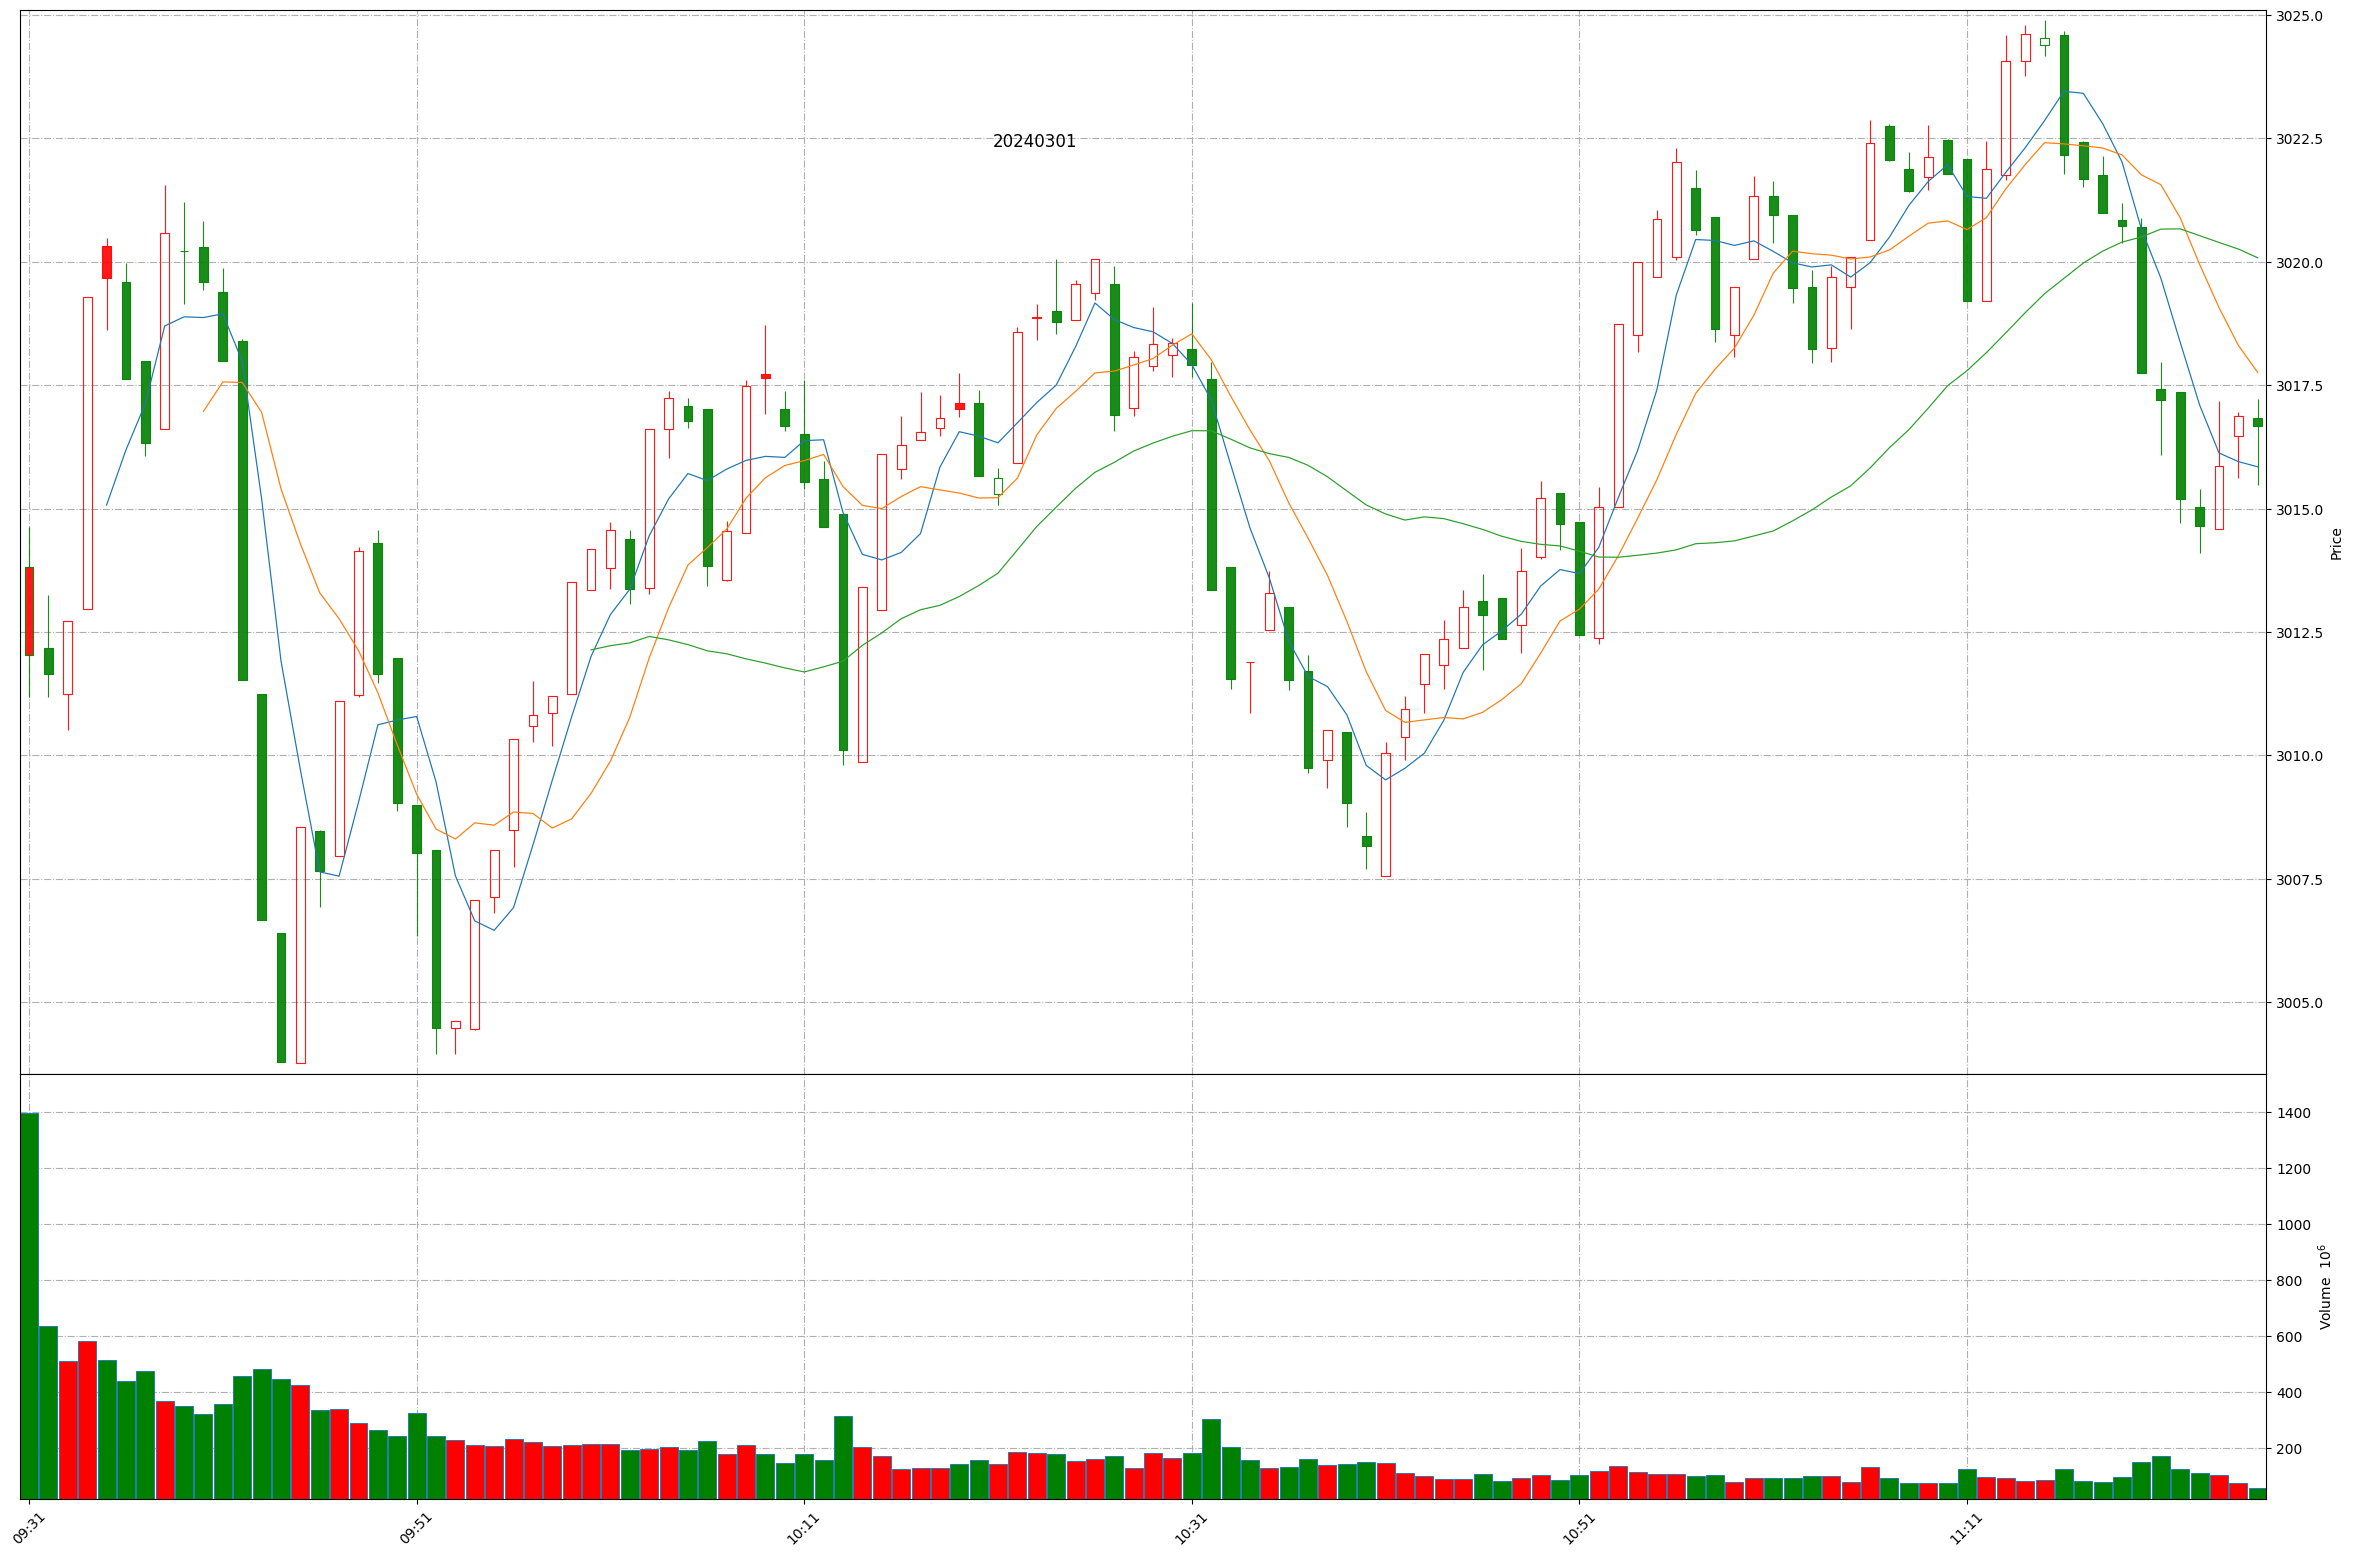
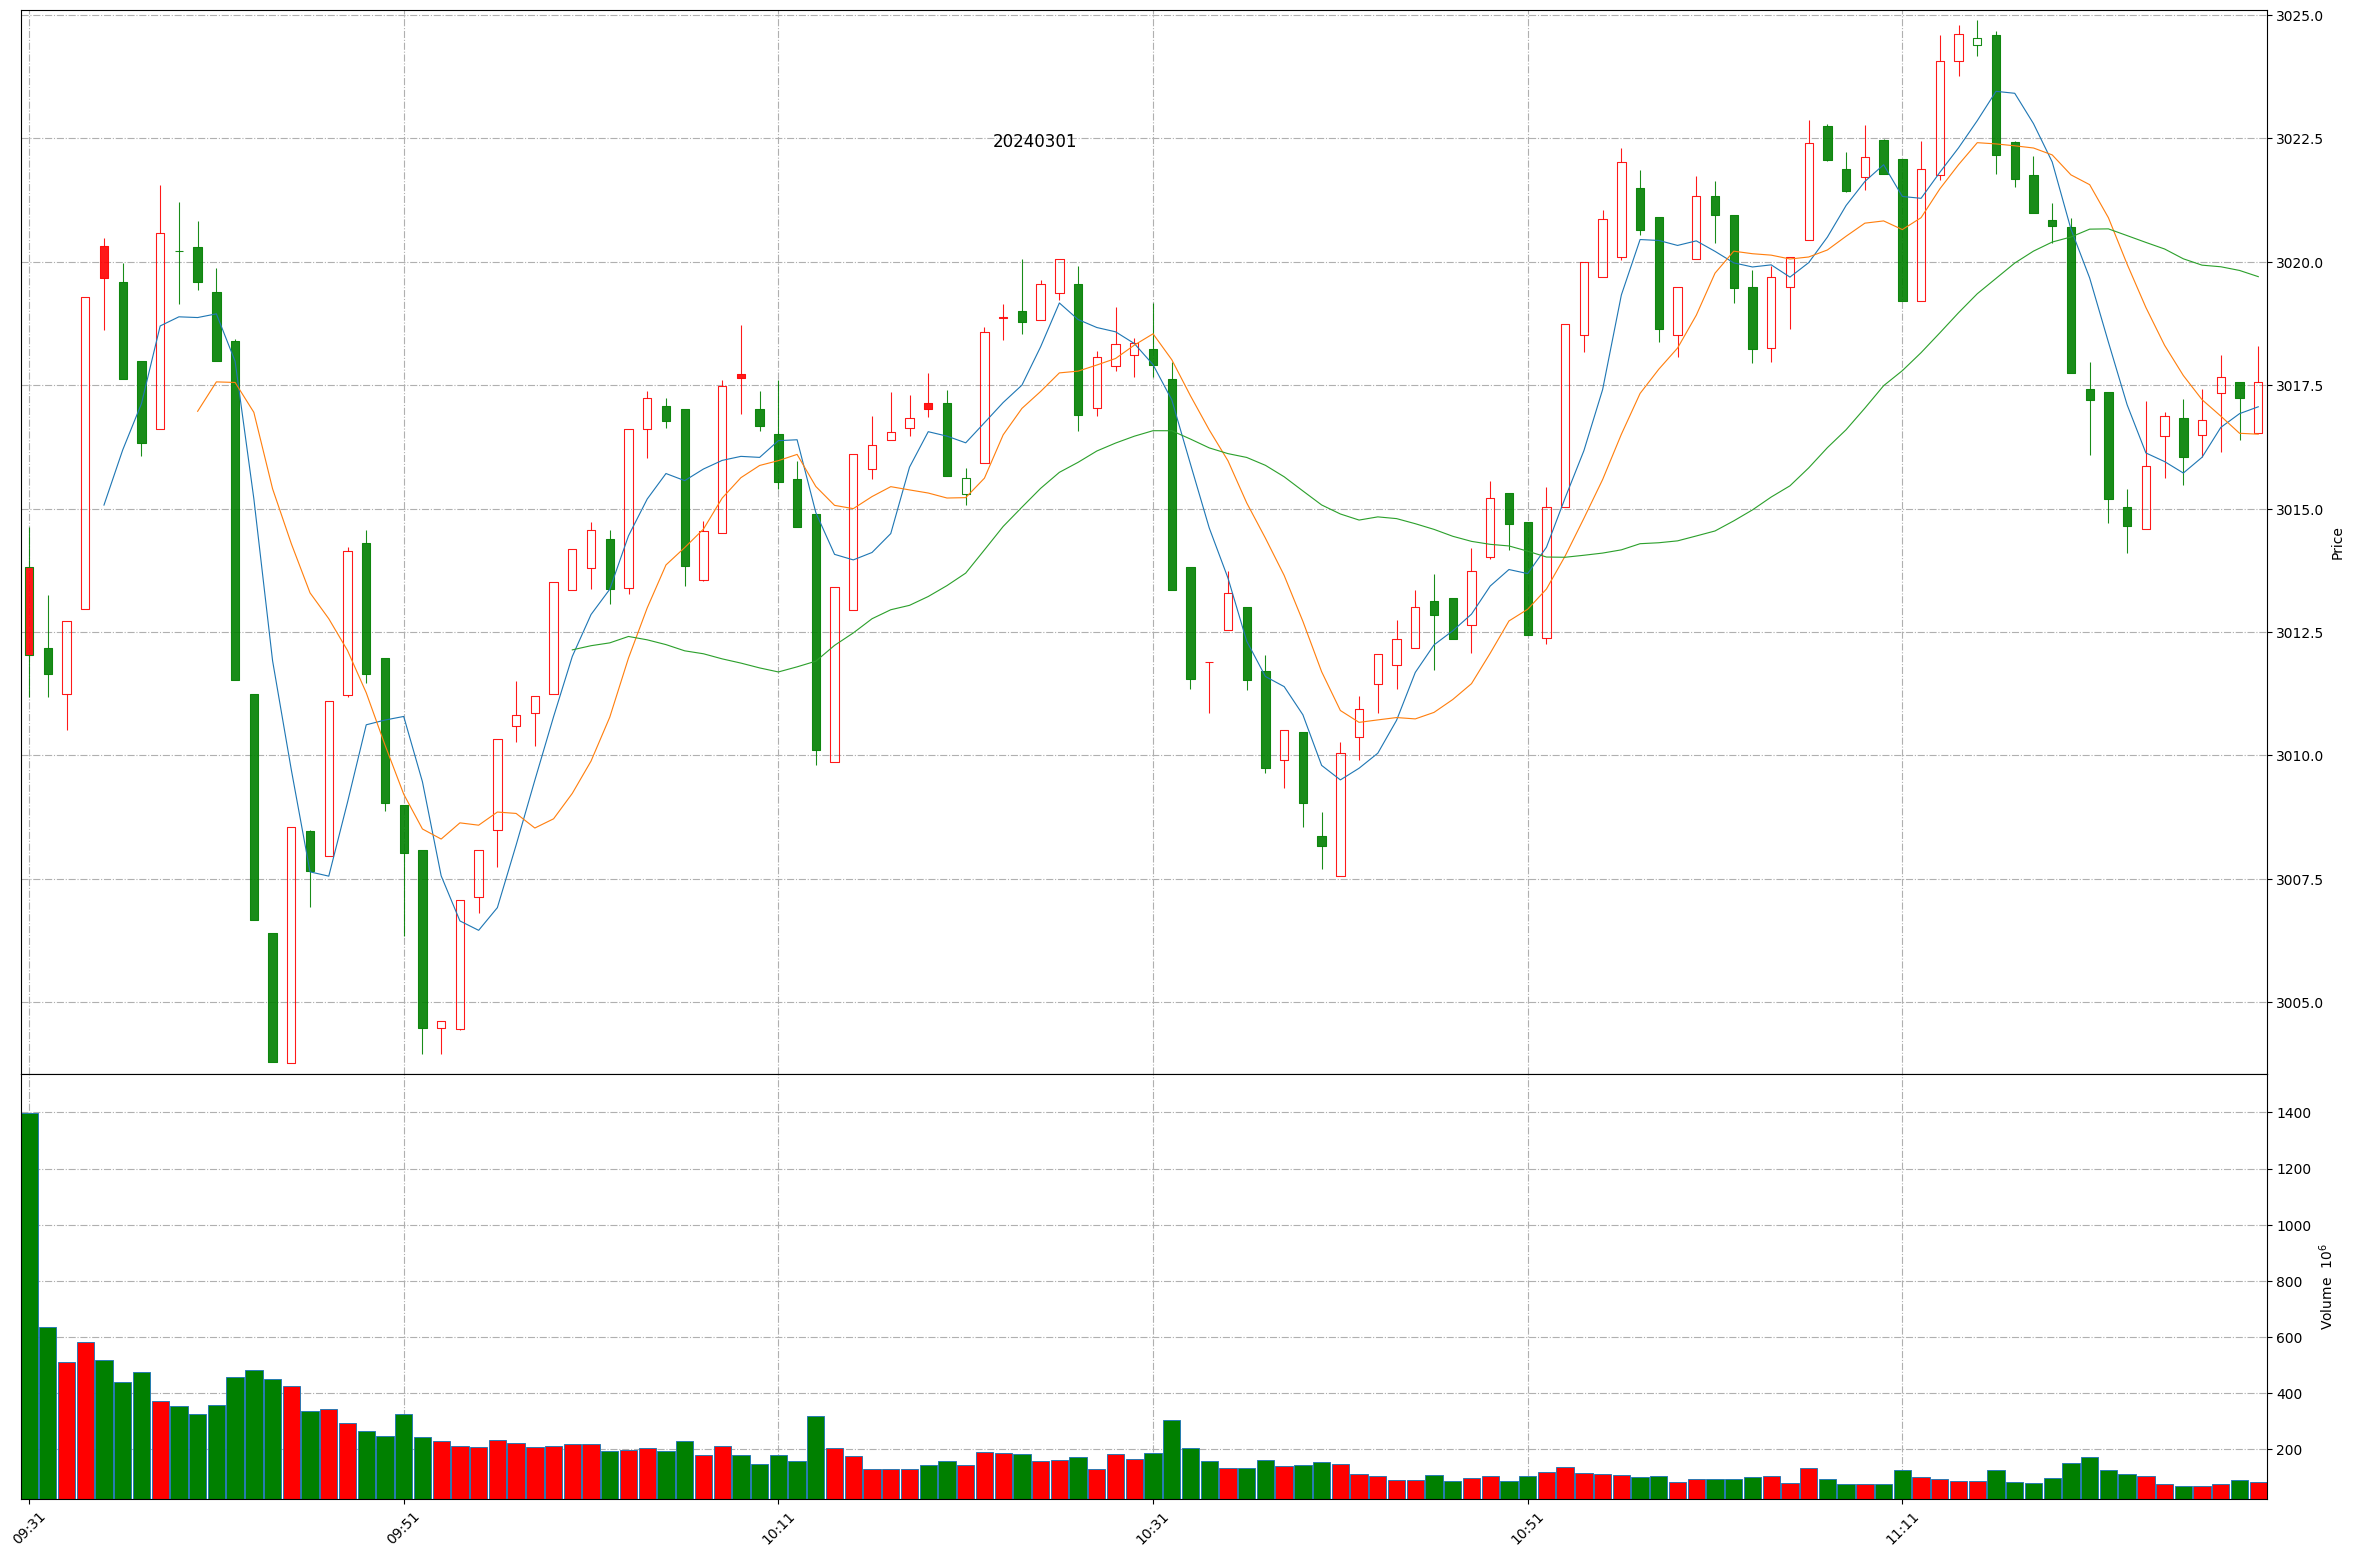
Github action update at 2024-03-01 11:30:20.

Changed region(s): [[0.031, 0.1541, 0.7136, 0.6782], [0.031, 0.8632, 0.9618, 0.9865], [0.6825, 0.0308, 0.9618, 0.3391]]

diff --git a/README.md b/README.md
@@ -1,11 +1,11 @@
 
 # Daily-A-share-market-quotes 每日 A 股指数（5min 更新）- 20240301
 
-### 上证指数 20240301 11:26
+### 上证指数 20240301 11:30
 ![](./fig/2024/3/20240301-sh000001.png)
 
-### 深证成指 20240301 11:26
+### 深证成指 20240301 11:30
 ![](./fig/2024/3/20240301-sz399001.png)
 
-### 北证50 20240301 11:26
+### 北证50 20240301 11:30
 ![](./fig/2024/3/20240301-bj899050.png)
